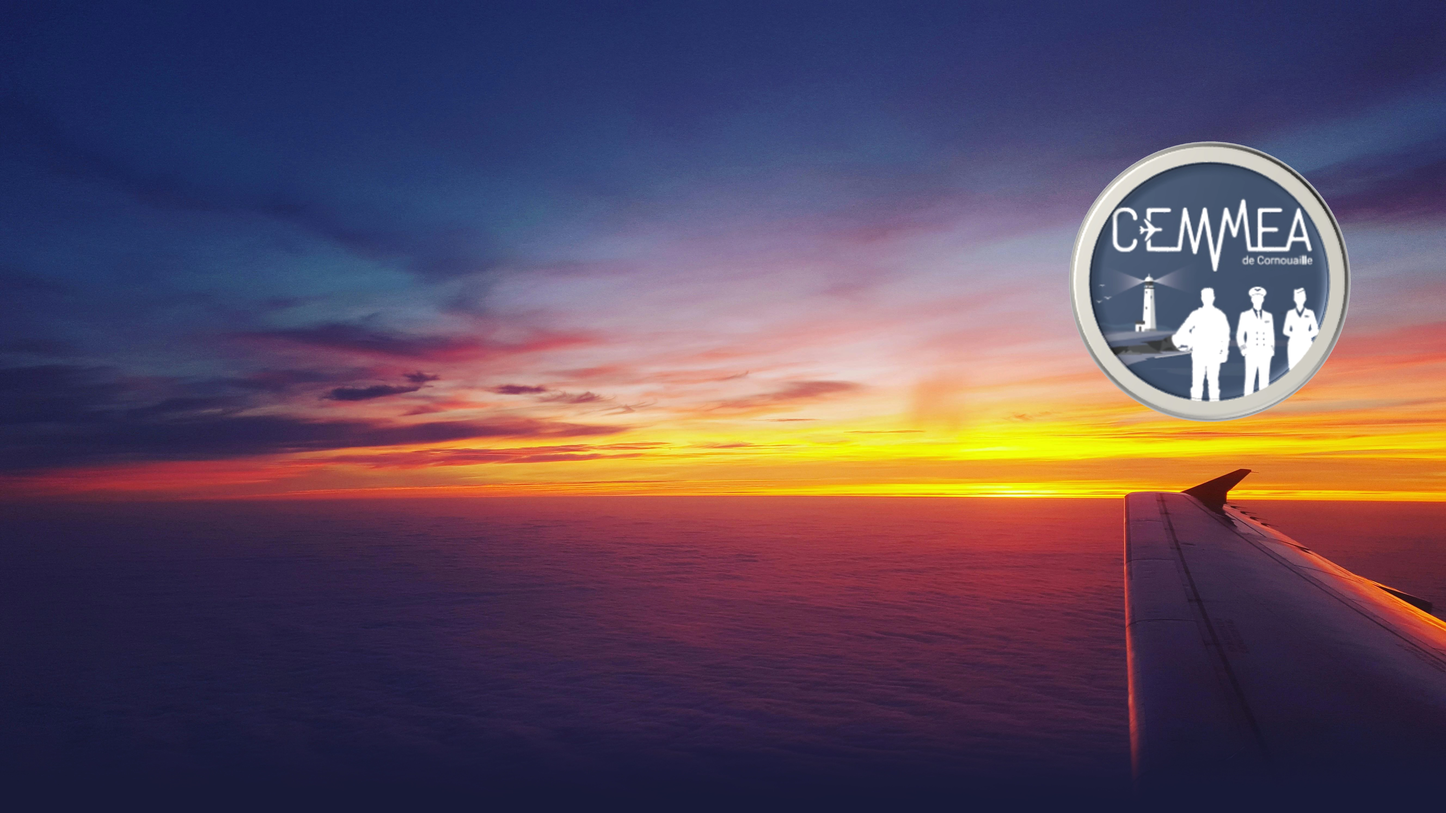
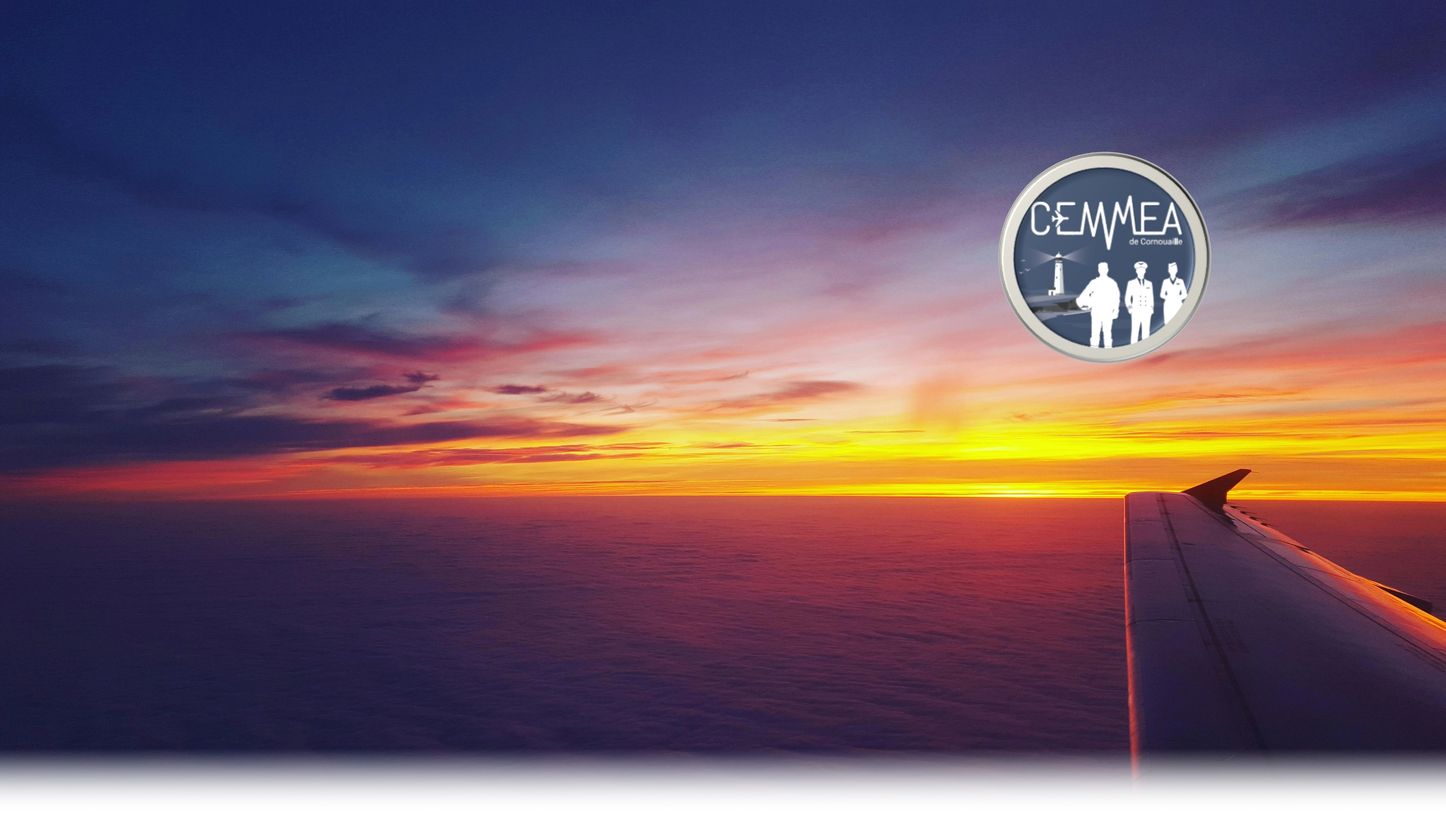
css

Changed region(s): [[0.0, 0.9026, 1.0, 1.0], [0.6875, 0.1556, 0.9375, 0.5291]]

diff --git a/frontend/src/pages/Access/Access.scss b/frontend/src/pages/Access/Access.scss
@@ -2,33 +2,53 @@
 @use "../../styles/utils/mixins" as *;
 
 .access__body {
-  width: 50%;
+  display: flex;
+  flex-direction: column;
+
+  @include responsive-tablet {
+    width: 70%;
+  }
+
+  @include responsive-desktop {
+    width: 60%;
+  }
 }
 
 .access__infos {
   display: flex;
-  flex-direction: row;
-  justify-content: space-between;
-  align-items: flex-start;
-  margin-top:5rem;
+  flex-direction: column;
+  align-items: center;
+  gap: 2rem;
 
-  &-map{
-    width: 30%;
-    
-    iframe{
-        aspect-ratio: 1/1;
-        border-radius: 1rem;
-        box-shadow: 10px 10px 5px rgba(0, 0, 0, 0.5);
-    }
-}
+  @include responsive-tablet {
+    flex-direction: row;
+    justify-content: space-between;
+  }
+  margin-top: 2rem;
 
-&-picture{
+  &-map {
     width: 50%;
-    
-    img{
-        width:100%;
-        border-radius: 1rem;
-        box-shadow: 10px 10px 5px rgba(0, 0, 0, 0.5);
+    @include responsive-tablet {
+      width: 35%;
+    }
+
+    iframe {
+      aspect-ratio: 1/1;
+      border-radius: 1rem;
+      box-shadow: 10px 10px 5px rgba(0, 0, 0, 0.5);
+    }
+  }
+
+  &-picture {
+    width: 75%;
+    @include responsive-tablet {
+      width: 55%;
+    }
+
+    img {
+      width: 100%;
+      border-radius: 1rem;
+      box-shadow: 10px 10px 5px rgba(0, 0, 0, 0.5);
     }
   }
 }

diff --git a/frontend/src/components/Navbar/Navbar.jsx b/frontend/src/components/Navbar/Navbar.jsx
@@ -41,7 +41,7 @@ const Navbar = () => {
       >
         <Toolbar sx={{ justifyContent: "center" }}>
           {/* Desktop version */}
-          <Box sx={{ display: { xs: "none", sm: "flex" }, gap: 2 }}>
+          <Box sx={{ display: { xs: "none", sm: "flex" }, gap:{sm:1,md:2}  }}>
             {menuItems.map((item) => (
               <Button
                 key={item.path}
@@ -71,10 +71,10 @@ const Navbar = () => {
           {/* Mobile burger menu */}
           <IconButton
             color="inherit"
-            sx={{ display: { xs: "flex", sm: "none" } }}
+            sx={{ display: { xs: "flex", sm: "none" },mr:"auto" }}
             onClick={() => setOpen(true)}
           >
-            <MenuIcon />
+            <MenuIcon sx={{fontSize:36}}/>
           </IconButton>
         </Toolbar>
       </AppBar>

diff --git a/frontend/index.html b/frontend/index.html
@@ -9,12 +9,9 @@
     <meta name="robots" content="index, follow" />
 
     <!-- Google Fonts -->
-    <link rel="preconnect" href="https://fonts.googleapis.com" />
-    <link rel="preconnect" href="https://fonts.gstatic.com" crossorigin />
-    <link
-      href="https://fonts.googleapis.com/css2?family=Roboto:wght@300;400;500;700&display=swap"
-      rel="stylesheet"
-    />
+<link rel="preconnect" href="https://fonts.googleapis.com">
+<link rel="preconnect" href="https://fonts.gstatic.com" crossorigin>
+<link href="https://fonts.googleapis.com/css2?family=Roboto:ital,wght@0,100..900;1,100..900&display=swap" rel="stylesheet">
 
     <!-- Primary Meta Tags -->
     <title>CEMMEA Cornouaille – Médecine aéronautique à Quimperlé</title>

diff --git a/frontend/src/styles/base/_common.scss b/frontend/src/styles/base/_common.scss
@@ -2,9 +2,7 @@
 @use "../../styles/utils/mixins" as *;
 
 .container__pages {
-  height: 100%;
-  min-height: 100vh;
-  position: relative;
+  height: 100vh;
   background-size: contain;
   background-position: top center;
   background-repeat: no-repeat;
@@ -16,8 +14,17 @@
 .contact,
 .prices,
 .blog {
-  background-image: url("/images/background-pages.webp");
   background-color: $secondary-color-1;
+  background-image: url("/images/background-pages_mobile.webp");
+
+  @include responsive-tablet {
+    background-image: url("/images/background-pages.webp");
+  }
+
+  @include responsive-desktop {
+    padding: 0 3rem;
+    background-size: cover;
+  }
 }
 
 .activities__body,

diff --git a/frontend/src/pages/Access/Access.jsx b/frontend/src/pages/Access/Access.jsx
@@ -19,8 +19,6 @@ const Access = () => {
 
         <div className="access__infos">
           <div class="access__infos-map">
-
-
             <iframe
               src="https://www.google.com/maps/embed?pb=!1m18!1m12!1m3!1d334.5387688115786!2d-3.552489941580303!3d47.87232212421434!2m3!1f0!2f0!3f0!3m2!1i1024!2i768!4f13.1!3m3!1m2!1s0x4810fa70ae423da9%3A0xfdcda9ced8b5393a!2s1%20Ven.%20du%20Dourdu%2C%2029300%20Quimperl%C3%A9!5e0!3m2!1sfr!2sfr!4v1763157578705!5m2!1sfr!2sfr"
               allowfullscreen=""

diff --git a/frontend/src/pages/Home/Home.scss b/frontend/src/pages/Home/Home.scss
@@ -2,5 +2,17 @@
 @use "../../styles/utils/mixins" as *;
 
 .home {
-  background-image: url("/images/background-home.webp");
+
+
+    background-color: $secondary-color-1;
+  background-image: url("/images/background-home_mobile.webp");
+
+  @include responsive-tablet {
+    background-image: url("/images/background-home.webp");
+  }
+
+  @include responsive-desktop {
+    padding: 0 10rem;
+    background-size: cover;
+  }
 }

diff --git a/frontend/src/styles/utils/_variables.scss b/frontend/src/styles/utils/_variables.scss
@@ -1,5 +1,5 @@
 // /* Fonts */
-$font_body: "Roboto", sans-serif !default;
+$font_body: "Roboto",sans-serif !default;
 $font_handwriting: "Delicious Handrawn";
 
 // /* Colors */
@@ -7,7 +7,8 @@ $primary-color-1: #fafafa;
 $primary-color-2: #2b3c56;
 $primary-color-3: #617a9c;
 
-$secondary-color-1:#191a38;
+$secondary-color-1: #191a38;
+$secondary-color-2: #111b58;
 
 $text-color-1: #000;
 $text-color-2: #fff;
